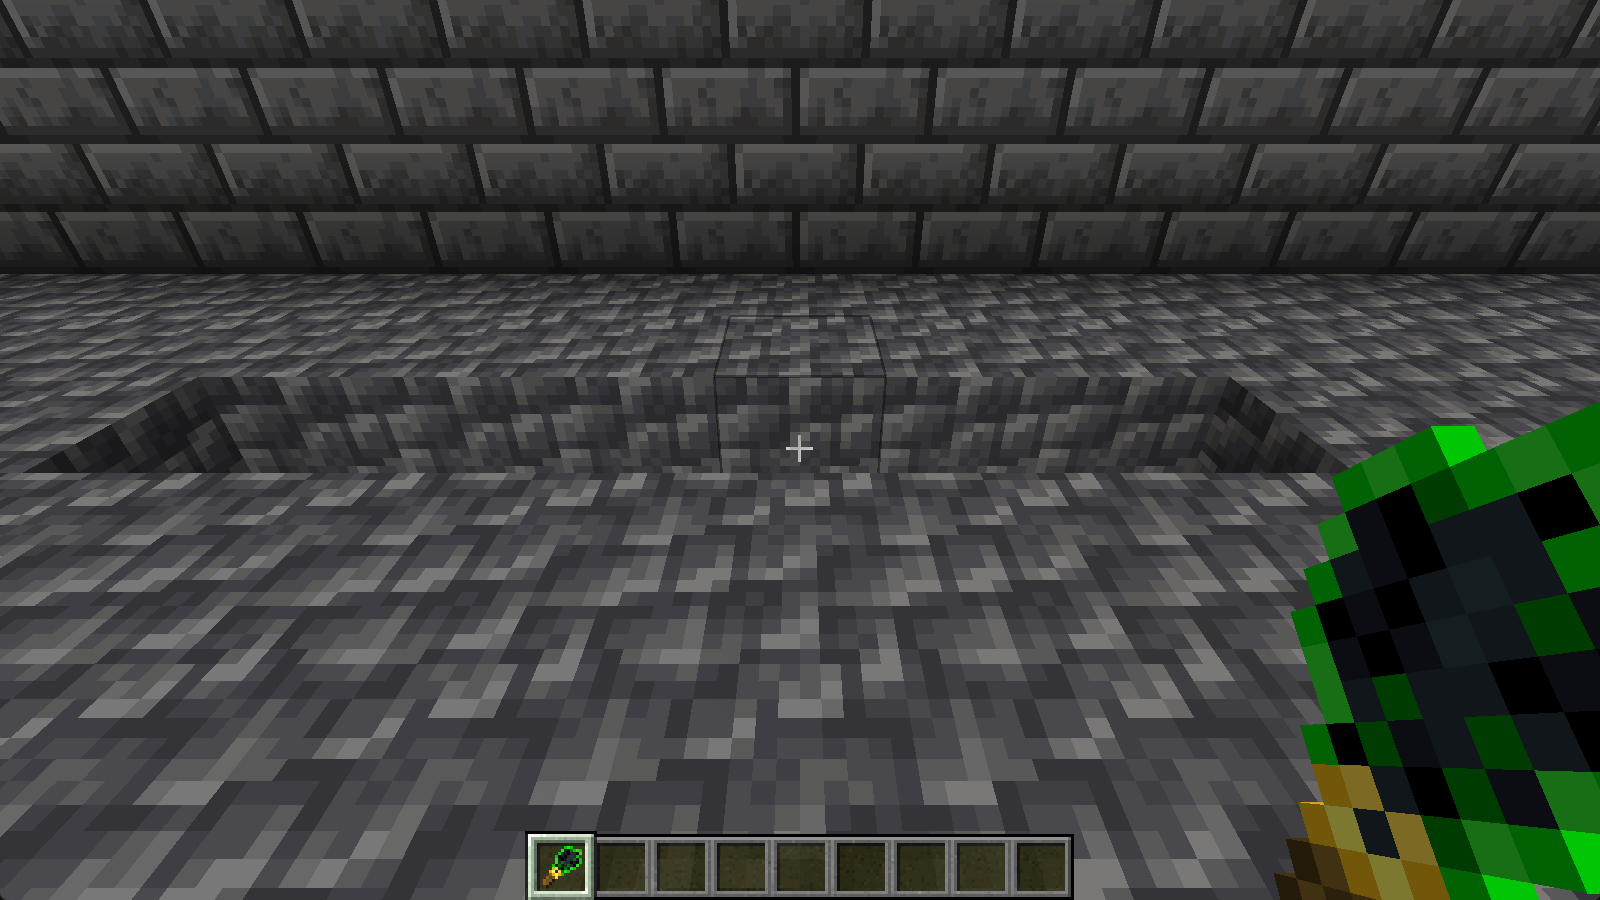
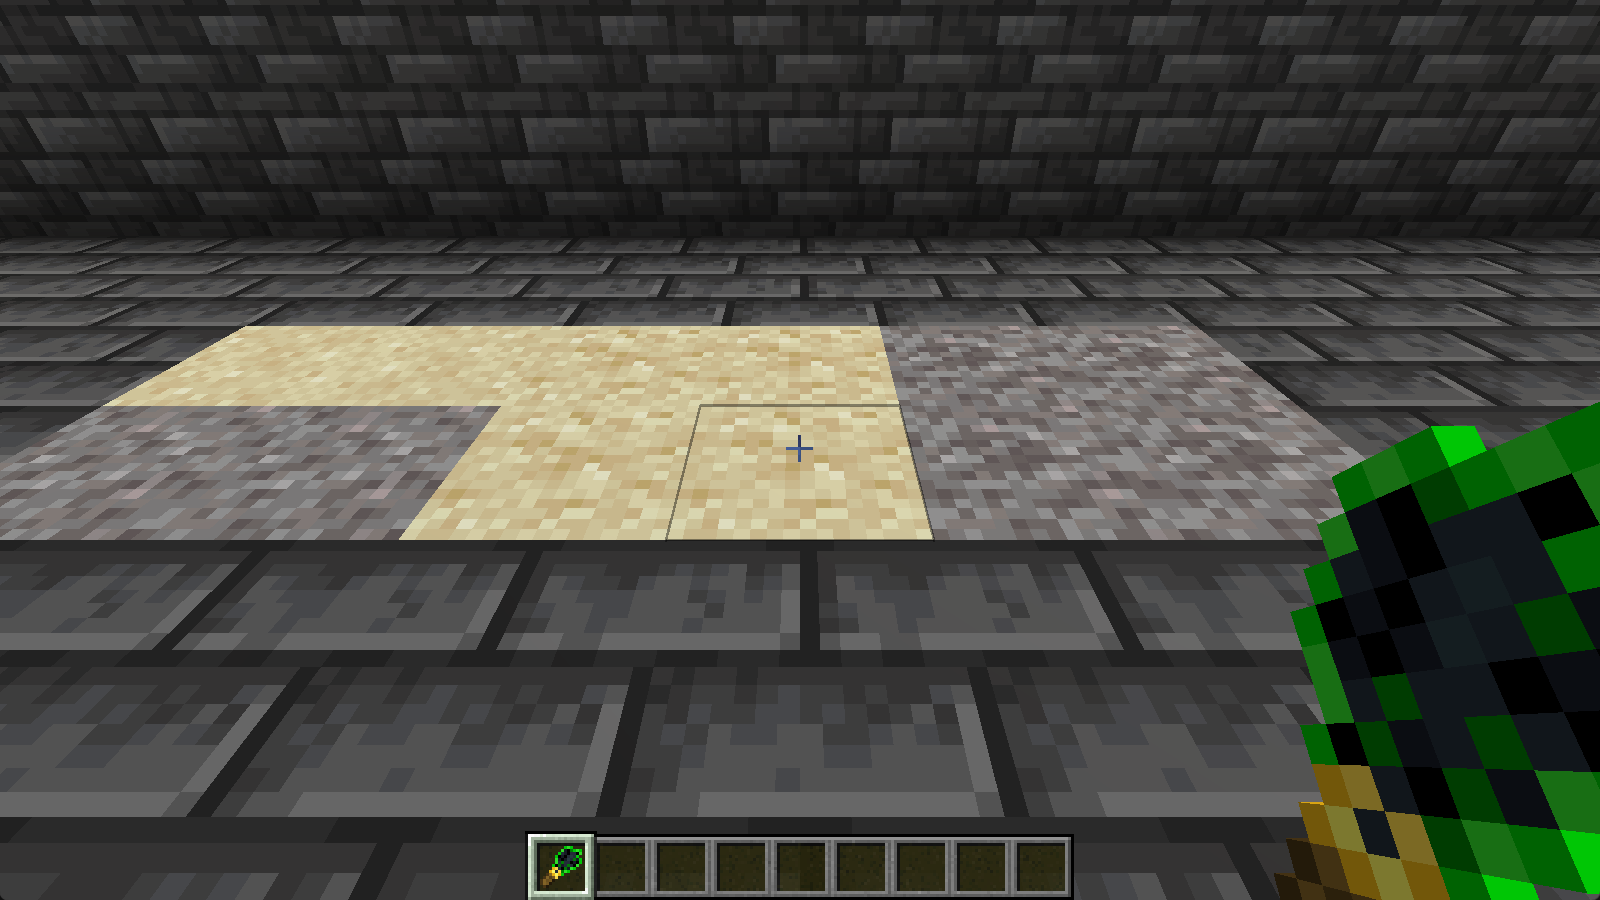
Fix: the Hood Brush dropped nothing on suspicious blocks
Brushing dug a block through to completion and left no loot behind.

The cause was an anti-farm gate I had added: the brush only swapped in
its own loot table on blocks that already carried one, meaning naturally
generated ones. Vanilla does the same to stop sniffer eggs being farmed.
But neither suspicious sand nor gravel can be obtained in survival at all
- both have empty loot tables and drop nothing when broken - so the only
way one gets placed by hand is creative or a command, where the loot could
simply be spawned anyway. The gate protected nothing and its one visible
effect was a brush that appeared broken.

It now primes any suspicious block that has not been rolled yet, which
needs brushCount through the access transformer to tell "untouched" from
"already dug part way".

This shipped because nothing tested the brush end to end. Brushing is a
use-item-over-time action with no command equivalent, and synthetic mouse
input does not reach the game reliably, so there is now a /hcbrush command
gated on FMLEnvironment.production - dev only, never in a player's game -
and tools/verify_brushing.py drives it. All three cases pass: player-placed
gravel, player-placed sand, and a natural block whose vanilla table is
correctly replaced by ours.

Also redoes the brush screenshot, which showed neither sand nor gravel. It
was captured from the wrong window: two clients were running and the
capture script silently took the first title match, which was one sitting
[…]

diff --git a/src/main/java/com/hoodcraft/item/HoodBrushItem.java b/src/main/java/com/hoodcraft/item/HoodBrushItem.java
@@ -36,10 +36,8 @@ import net.minecraft.world.phys.Vec3;
  * nautilus shell, an emerald, leather boots, a stone hoe, or - at 6.7%, the same odds vanilla gives
  * a sniffer egg - one of the mod's pet eggs.
  *
- * <p>The swap deliberately happens only on blocks that still carry a loot table of their own, which
- * is to say naturally generated ones. Suspicious sand or gravel placed by a player has no loot table
- * and is left alone, so it yields nothing here exactly as it yields nothing to a vanilla brush. That
- * is what stops the eggs from being farmable.
+ * <p>Unlike a vanilla brush it works on player-placed suspicious blocks too - see
+ * {@link #primeHoodLoot} for why that restriction is not worth keeping here.
  */
 public class HoodBrushItem extends Item {
 
@@ -107,9 +105,7 @@ public class HoodBrushItem extends Item {
             return;
         }
 
-        swapInHoodLoot(brushable, level);
-
-        if (brushable.brush(level.getGameTime(), player, blockHit.getDirection())) {
+        if (brushStroke(brushable, level, player, blockHit.getDirection())) {
             EquipmentSlot slot = stack.equals(player.getItemBySlot(EquipmentSlot.OFFHAND))
                     ? EquipmentSlot.OFFHAND
                     : EquipmentSlot.MAINHAND;
@@ -118,19 +114,55 @@ public class HoodBrushItem extends Item {
     }
 
     /**
-     * Point an unbrushed, naturally generated block at the HoodCraft loot table.
+     * One brush stroke: make sure the block is pointed at the HoodCraft loot table, then brush it.
      *
-     * <p>A block whose loot table is already null is either player-placed (never had one) or already
-     * unpacked by an earlier brush (which nulls it and fixes the item). Either way it must be left
-     * as it is: the first case keeps eggs unfarmable, the second stops a player from re-rolling a
-     * result they did not like by switching brushes.
+     * <p>Separated out so the whole stroke can be driven from somewhere other than a player holding
+     * right-click. Brushing is a use-item-over-time action with no command equivalent, and
+     * synthetic mouse input does not reach the game reliably, so this is the seam any automated
+     * check of the loot has to go through.
+     *
+     * @return true when this stroke completed the dig, which is when durability is spent
      */
-    private static void swapInHoodLoot(BrushableBlockEntity brushable, Level level) {
-        if (brushable.lootTable == null) {
+    public static boolean brushStroke(BrushableBlockEntity brushable, Level level,
+                                      Player player, Direction face) {
+        return brushStroke(brushable, level, player, face, level.getGameTime());
+    }
+
+    /**
+     * As above, but with the tick to brush at supplied. {@code brush} ignores anything inside its
+     * own ten-tick cooldown, so a caller landing several strokes in one game tick has to advance
+     * this itself.
+     */
+    public static boolean brushStroke(BrushableBlockEntity brushable, Level level,
+                                      Player player, Direction face, long gameTime) {
+        primeHoodLoot(brushable, level);
+        return brushable.brush(gameTime, player, face);
+    }
+
+    /**
+     * Point an unbrushed suspicious block at the HoodCraft loot table.
+     *
+     * <p>This deliberately covers player-placed blocks as well as naturally generated ones. Vanilla
+     * gives player-placed suspicious sand and gravel nothing, to stop sniffer eggs being farmed —
+     * but neither block can actually be obtained in survival, since both have empty loot tables and
+     * drop nothing when broken. The only way one gets placed by hand is creative or a command, where
+     * the loot could simply be spawned anyway. So the restriction protects nothing here, and its one
+     * visible effect was a brush that appeared broken in a test world.
+     *
+     * <p>What does still matter is not re-rolling a block mid-dig. {@code unpackLootTable} runs
+     * before the brush counter increments and nulls the table once it has rolled, so a zero count
+     * with no item held means nothing has been rolled yet — and only then is it safe to prime.
+     */
+    private static void primeHoodLoot(BrushableBlockEntity brushable, Level level) {
+        if (brushable.lootTable != null) {
+            // Naturally generated and untouched: keep the block's own seed so its contents stay
+            // stable no matter how many times a player starts and abandons the dig.
+            brushable.setLootTable(HCLootTables.HOOD_BRUSHING, brushable.lootTableSeed);
             return;
         }
-        long seed = brushable.lootTableSeed != 0L ? brushable.lootTableSeed : level.getRandom().nextLong();
-        brushable.setLootTable(HCLootTables.HOOD_BRUSHING, seed);
+        if (brushable.brushCount == 0 && brushable.getItem().isEmpty()) {
+            brushable.setLootTable(HCLootTables.HOOD_BRUSHING, level.getRandom().nextLong());
+        }
     }
 
     private HitResult calculateHitResult(Player player) {

diff --git a/tools/verify_brushing.py b/tools/verify_brushing.py
@@ -1,0 +1,118 @@
+#!/usr/bin/env python3
+"""Actually brush blocks with the Hood Brush and check what falls out.
+
+Brushing is a use-item-over-time action driven by holding right-click. There is no vanilla command
+equivalent and synthetic mouse input does not reach the game reliably, so the mod registers a
+dev-only `/hcbrush <pos>` (see HCTestCommands) that runs a full dig through the real item code.
+The loot table rolling correctly on its own - which `verify_gameplay.py` proves - says nothing
+about whether the item ever reaches the ground, and that gap is how this shipped broken once.
+
+A player has to be connected, because the brush routine wants one.
+
+    ./gradlew runServer          # one shell, RCON enabled
+    ./gradlew runScreenshots     # another - joins the dev server automatically as "Dev"
+    python tools/verify_brushing.py
+
+The script stops the server when it finishes.
+"""
+
+from __future__ import annotations
+
+import re
+import sys
+import time
+
+from rcon import Checks, Rcon
+
+PLAYER = "Dev"
+X, Z = 60, 60
+FLOOR_Y = 100                 # floor blocks occupy this layer, top surface at 101
+TARGET = (X, FLOOR_Y + 2, Z + 2)   # brushed block, sitting at roughly eye level
+
+# A stand-in for "this block generated naturally", which is all a vanilla loot table means here.
+NATURAL_TABLE = "minecraft:archaeology/trail_ruins_common"
+
+EXPECTED = {
+    "minecraft:nautilus_shell",
+    "minecraft:emerald",
+    "minecraft:leather_boots",
+    "minecraft:stone_hoe",
+}
+
+
+def dropped_items(r: Rcon) -> list[str]:
+    """Every item entity lying near the target block."""
+    out = r.cmd(f"data get entity @e[type=item,limit=1,sort=nearest,"
+                f"x={X},y={FLOOR_Y},z={Z},distance=..8] Item")
+    return re.findall(r'id:\s*"([^"]+)"', out)
+
+
+def build(r: Rcon, block: str, natural: bool) -> None:
+    tx, ty, tz = TARGET
+    r.cmd("kill @e[type=item]")
+    r.cmd(f"fill {X - 4} {FLOOR_Y} {Z - 4} {X + 4} {FLOOR_Y + 6} {Z + 6} minecraft:air")
+    r.cmd(f"fill {X - 4} {FLOOR_Y} {Z - 4} {X + 4} {FLOOR_Y} {Z + 6} minecraft:stone")
+    # Suspicious gravel is gravity-affected, so the target needs something solid underneath it.
+    r.cmd(f"setblock {tx} {FLOOR_Y + 1} {tz} minecraft:stone")
+    r.cmd(f"setblock {tx} {ty} {tz} {block}")
+    if natural:
+        r.cmd(f'data merge block {tx} {ty} {tz} {{LootTable:"{NATURAL_TABLE}"}}')
+    r.cmd(f"item replace entity {PLAYER} weapon.mainhand with hoodcraft:hood_brush")
+    r.cmd(f"tp {PLAYER} {X + 0.5} {FLOOR_Y + 1} {Z + 0.5} 0 3")
+    time.sleep(0.5)
+
+
+def brush_once(r: Rcon, label: str, block: str, natural: bool) -> list[str]:
+    build(r, block, natural)
+    tx, ty, tz = TARGET
+    print(f"    {label}: {r.cmd(f'execute as {PLAYER} at {PLAYER} run hcbrush {tx} {ty} {tz}').strip()[:50]}")
+    time.sleep(0.6)
+    items = dropped_items(r)
+    turned = "Test passed" in r.cmd(f"execute unless block {tx} {ty} {tz} {block}")
+    print(f"      dug through: {turned}   dropped: {', '.join(items) or 'nothing'}")
+    return items
+
+
+def main() -> int:
+    r = Rcon()
+    if not r.connect():
+        sys.exit("could not reach RCON - is the dev server running?")
+    print("connected")
+    if "Test passed" not in r.cmd(f"execute if entity {PLAYER}"):
+        sys.exit(f"'{PLAYER}' is not on the server - start ./gradlew runScreenshots first")
+
+    check = Checks()
+    r.cmd(f"op {PLAYER}")
+    r.cmd(f"gamemode creative {PLAYER}")
+    r.cmd("gamerule doMobSpawning false")
+    r.cmd("gamerule sendCommandFeedback false")
+    r.cmd("time set 6000")
+    r.cmd("weather clear 1000000")
+    r.cmd(f"forceload add {X - 16} {Z - 16} {X + 16} {Z + 16}")
+
+    print("\n1. Player-placed suspicious gravel")
+    items = brush_once(r, "gravel", "minecraft:suspicious_gravel", natural=False)
+    check("player-placed gravel yields loot", bool(items), ", ".join(items) or "nothing")
+    check("and it is from the Hood Brush table", set(items) <= EXPECTED and bool(items),
+          ", ".join(sorted(set(items) - EXPECTED)) or "as expected")
+
+    print("\n2. Player-placed suspicious sand")
+    items = brush_once(r, "sand", "minecraft:suspicious_sand", natural=False)
+    check("player-placed sand yields loot", bool(items), ", ".join(items) or "nothing")
+
+    print("\n3. Naturally generated gravel (carries a vanilla loot table)")
+    items = brush_once(r, "natural gravel", "minecraft:suspicious_gravel", natural=True)
+    check("natural gravel yields loot", bool(items), ", ".join(items) or "nothing")
+    check("vanilla's table was replaced by ours", set(items) <= EXPECTED and bool(items),
+          ", ".join(sorted(set(items) - EXPECTED)) or "no vanilla trail-ruins loot")
+
+    r.cmd("kill @e[type=item]")
+    r.cmd(f"forceload remove {X - 16} {Z - 16} {X + 16} {Z + 16}")
+    r.cmd("gamerule sendCommandFeedback true")
+    status = check.summary()
+    r.cmd("stop")
+    return status
+
+
+if __name__ == "__main__":
+    raise SystemExit(main())

diff --git a/src/main/java/com/hoodcraft/HCTestCommands.java b/src/main/java/com/hoodcraft/HCTestCommands.java
@@ -1,0 +1,77 @@
+package com.hoodcraft;
+
+import com.hoodcraft.item.HoodBrushItem;
+import com.mojang.brigadier.builder.LiteralArgumentBuilder;
+import net.minecraft.commands.CommandSourceStack;
+import net.minecraft.commands.Commands;
+import net.minecraft.commands.arguments.coordinates.BlockPosArgument;
+import net.minecraft.core.BlockPos;
+import net.minecraft.core.Direction;
+import net.minecraft.network.chat.Component;
+import net.minecraft.server.level.ServerPlayer;
+import net.minecraft.world.level.Level;
+import net.minecraft.world.level.block.entity.BrushableBlockEntity;
+import net.neoforged.bus.api.SubscribeEvent;
+import net.neoforged.fml.common.EventBusSubscriber;
+import net.neoforged.fml.loading.FMLEnvironment;
+import net.neoforged.neoforge.event.RegisterCommandsEvent;
+
+/**
+ * Test-only commands. Registered exclusively in a development environment, so nothing here reaches
+ * a player's game.
+ *
+ * <p>{@code /hcbrush <pos>} brushes one block through to completion in a single call. It exists
+ * because the brush is otherwise untestable: brushing is a use-item-over-time action driven by
+ * holding right-click, there is no vanilla command equivalent, and synthetic mouse input does not
+ * reach the game reliably. Without this hook the one mechanic the whole mod is built around could
+ * only ever be checked by hand - which is exactly how it shipped broken once already.
+ */
+@EventBusSubscriber(modid = HoodCraft.MODID)
+public final class HCTestCommands {
+
+    /** Ten successful strokes complete a dig; the spare few absorb any that the cooldown eats. */
+    private static final int MAX_STROKES = 20;
+    private static final int BRUSH_COOLDOWN_TICKS = 10;
+
+    @SubscribeEvent
+    public static void register(RegisterCommandsEvent event) {
+        if (FMLEnvironment.production) {
+            return;
+        }
+        LiteralArgumentBuilder<CommandSourceStack> node = Commands.literal("hcbrush")
+                .requires(source -> source.hasPermission(2))
+                .then(Commands.argument("pos", BlockPosArgument.blockPos())
+                        .executes(ctx -> {
+                            BlockPos pos = BlockPosArgument.getLoadedBlockPos(ctx, "pos");
+                            ServerPlayer player = ctx.getSource().getPlayerOrException();
+                            Level level = player.level();
+
+                            if (!(level.getBlockEntity(pos) instanceof BrushableBlockEntity brushable)) {
+                                ctx.getSource().sendFailure(Component.literal("not a brushable block"));
+                                return 0;
+                            }
+
+                            // brush() ignores anything inside its own ten-tick cooldown, so the tick
+                            // handed to it has to advance even though no real time passes here.
+                            long tick = level.getGameTime();
+                            int strokes = 0;
+                            boolean completed = false;
+                            while (strokes < MAX_STROKES && !completed) {
+                                completed = HoodBrushItem.brushStroke(brushable, level, player,
+                                        Direction.UP, tick);
+                                tick += BRUSH_COOLDOWN_TICKS;
+                                strokes++;
+                            }
+
+                            final int s = strokes;
+                            final boolean c = completed;
+                            ctx.getSource().sendSuccess(
+                                    () -> Component.literal("strokes=" + s + " completed=" + c), false);
+                            return 1;
+                        }));
+        event.getDispatcher().register(node);
+    }
+
+    private HCTestCommands() {
+    }
+}

diff --git a/tools/stage_screenshots.py b/tools/stage_screenshots.py
@@ -143,20 +143,32 @@ def scene_portrait(r: Rcon) -> None:
 
 
 def scene_brush(r: Rcon) -> None:
-    """The Hood Brush in hand over suspicious gravel, in ancient-city stonework."""
+    """The Hood Brush in hand, over a patch of suspicious sand and gravel."""
     clear_stage(r)
-    floor(r, "minecraft:cobbled_deepslate")
-    backdrop(r, "minecraft:deepslate_bricks", at_z=5, height=6)
-    r.cmd(f"setblock {STAGE_X - 3} {FLOOR_Y + 3} {STAGE_Z + 4} minecraft:soul_lantern")
-    r.cmd(f"setblock {STAGE_X + 4} {FLOOR_Y + 3} {STAGE_Z + 4} minecraft:soul_lantern")
-    # Suspicious gravel reads as ordinary gravel from any distance, so the shot is close and looks
-    # down at it, with plain gravel alongside for the contrast that is the whole point.
-    for dx in (-2, -1, 0, 1):
-        r.cmd(f"setblock {STAGE_X + dx} {FLOOR_Y} {STAGE_Z + 2} minecraft:suspicious_gravel")
-    r.cmd(f"setblock {STAGE_X + 2} {FLOOR_Y} {STAGE_Z + 2} minecraft:gravel")
-    r.cmd(f"setblock {STAGE_X - 3} {FLOOR_Y} {STAGE_Z + 2} minecraft:gravel")
+    # A dark floor so the sand and gravel patches read as patches rather than as more floor - laid
+    # two thick, because suspicious sand and gravel are gravity-affected and fall straight through
+    # a single layer with air beneath it.
+    r.cmd(f"fill {STAGE_X - STAGE_R} {FLOOR_Y - 1} {STAGE_Z - STAGE_R} "
+          f"{STAGE_X + STAGE_R} {FLOOR_Y - 1} {STAGE_Z + STAGE_R} minecraft:deepslate_bricks")
+    floor(r, "minecraft:deepslate_bricks")
+    backdrop(r, "minecraft:deepslate_tiles", at_z=6, height=6)
+    r.cmd(f"setblock {STAGE_X - 4} {FLOOR_Y + 3} {STAGE_Z + 5} minecraft:soul_lantern")
+    r.cmd(f"setblock {STAGE_X + 5} {FLOOR_Y + 3} {STAGE_Z + 5} minecraft:soul_lantern")
+
+    # Suspicious blocks on the left, their ordinary counterparts on the right, so the difference
+    # is visible in one frame instead of having to be taken on trust.
+    for dx in (-3, -2):
+        for dz in (2, 3):
+            r.cmd(f"setblock {STAGE_X + dx} {FLOOR_Y} {STAGE_Z + dz} minecraft:suspicious_gravel")
+    for dx in (-1, 0):
+        for dz in (2, 3):
+            r.cmd(f"setblock {STAGE_X + dx} {FLOOR_Y} {STAGE_Z + dz} minecraft:suspicious_sand")
+    for dx in (1, 2):
+        r.cmd(f"setblock {STAGE_X + dx} {FLOOR_Y} {STAGE_Z + 2} minecraft:gravel")
+        r.cmd(f"setblock {STAGE_X + dx} {FLOOR_Y} {STAGE_Z + 3} minecraft:sand")
+
     hold(r, "hoodcraft:hood_brush")
-    stand(r, -0.5, -0.4, 0, 32)
+    stand(r, -0.5, 0.2, 0, 34)
 
 
 def scene_egg(r: Rcon) -> None:

diff --git a/CONTRIBUTING.md b/CONTRIBUTING.md
@@ -74,6 +74,21 @@ previous run left one inherits the old timer and is measured against the wrong s
 sniffer egg behaves the same way, so this is worth knowing rather than working around: two eggs
 placed in the same spot within one hatch window share a clock.
 
+**Brushing needs its own pass, and a connected client.** It is a use-item-over-time action driven
+by holding right-click: there is no vanilla command equivalent, and synthetic mouse input does not
+reach the game reliably. So the mod registers a `/hcbrush <pos>` command that runs a full dig
+through the real item code, gated on `FMLEnvironment.production` so it exists only in dev.
+
+```bash
+./gradlew runServer          # one shell
+./gradlew runScreenshots     # another - joins as "Dev", which the brush routine needs
+python tools/verify_brushing.py
+```
+
+This gap is not hypothetical. The loot table rolling correctly says nothing about whether the item
+ever reaches the ground, and the mod shipped once with a brush that dug through blocks and dropped
+nothing at all.
+
 **Run the client too, and read its log.** A headless server never builds an entity renderer, so it
 boots happily past a model that cannot bake — and an invisible mob is not something a server-side
 check will ever report. Grep a `runClient` log for `Failed to create model`.
@@ -166,7 +181,13 @@ will conflict: last datapack loaded wins, and the loser's changes vanish silentl
 
 ## Access transformer
 
-`META-INF/accesstransformer.cfg` opens up `BrushableBlockEntity.lootTable` and `lootTableSeed`. The
-Hood Brush needs to see which loot table a suspicious block is carrying so it can tell a naturally
-generated block (which has one) from a player-placed or already-brushed one (which does not), and
-swap in the HoodCraft table only in the first case. That check is what keeps the loot unfarmable.
+`META-INF/accesstransformer.cfg` opens up `BrushableBlockEntity.lootTable`, `lootTableSeed` and
+`brushCount`. The Hood Brush swaps its own loot table onto a suspicious block just before brushing
+it, and has to know what state that block is in first: which table it already carries, and whether
+anything has been rolled out of it yet.
+
+It deliberately primes player-placed blocks too, which vanilla refuses to do. Vanilla's reason is
+to stop sniffer eggs being farmed, but neither suspicious sand nor gravel can be obtained in
+survival — both have empty loot tables and drop nothing when broken — so the only way one gets
+placed by hand is creative or a command, where the loot could simply be spawned anyway. The
+restriction protected nothing and its one visible effect was a brush that appeared broken.

diff --git a/README.md b/README.md
@@ -48,8 +48,8 @@ brush has somewhere new to be used. Vanilla's suspicious sand still works as it 
 
 | | |
 |:--:|:--:|
-| ![A Robin perched, seen in profile](docs/screenshots/portrait.png) | ![The Hood Brush held over suspicious gravel](docs/screenshots/brush.png) |
-| **The Robin** — 6 hearts, tamed with wheat seeds | **The Hood Brush** — over suspicious gravel |
+| ![A Robin perched, seen in profile](docs/screenshots/portrait.png) | ![The Hood Brush held over patches of suspicious sand and gravel](docs/screenshots/brush.png) |
+| **The Robin** — 6 hearts, tamed with wheat seeds | **The Hood Brush** — over suspicious sand and gravel |
 | ![Three Robin Eggs at different hatch stages](docs/screenshots/egg.png) | ![The Black Feather, Hood Brush and Robin Egg as dropped items](docs/screenshots/items.png) |
 | **Hatch stages** on wool, slime and honey *(WIP)* | **Black Feather, Hood Brush, Robin Egg** |
 
@@ -74,9 +74,9 @@ there is **no dependency on Citadel** even though the geometry originates in a m
 | Egg hatch *(WIP)* | 30 min, 15 on wool, 5 on slime or honey |
 | Suspicious gravel | 30% of ancient-city cobbled deepslate |
 
-Suspicious sand or gravel placed by a player yields nothing to the Hood Brush, exactly as it yields
-nothing to a vanilla one, and a block that has already been brushed keeps the item it rolled — so
-its loot cannot be farmed or re-rolled.
+Unlike a vanilla brush, the Hood Brush also works on suspicious blocks you placed yourself — handy
+for testing, and no exploit, since neither block can be obtained in survival at all. A block that
+has already been brushed keeps whatever it rolled, so results cannot be re-rolled.
 
 ## Building from source
 
